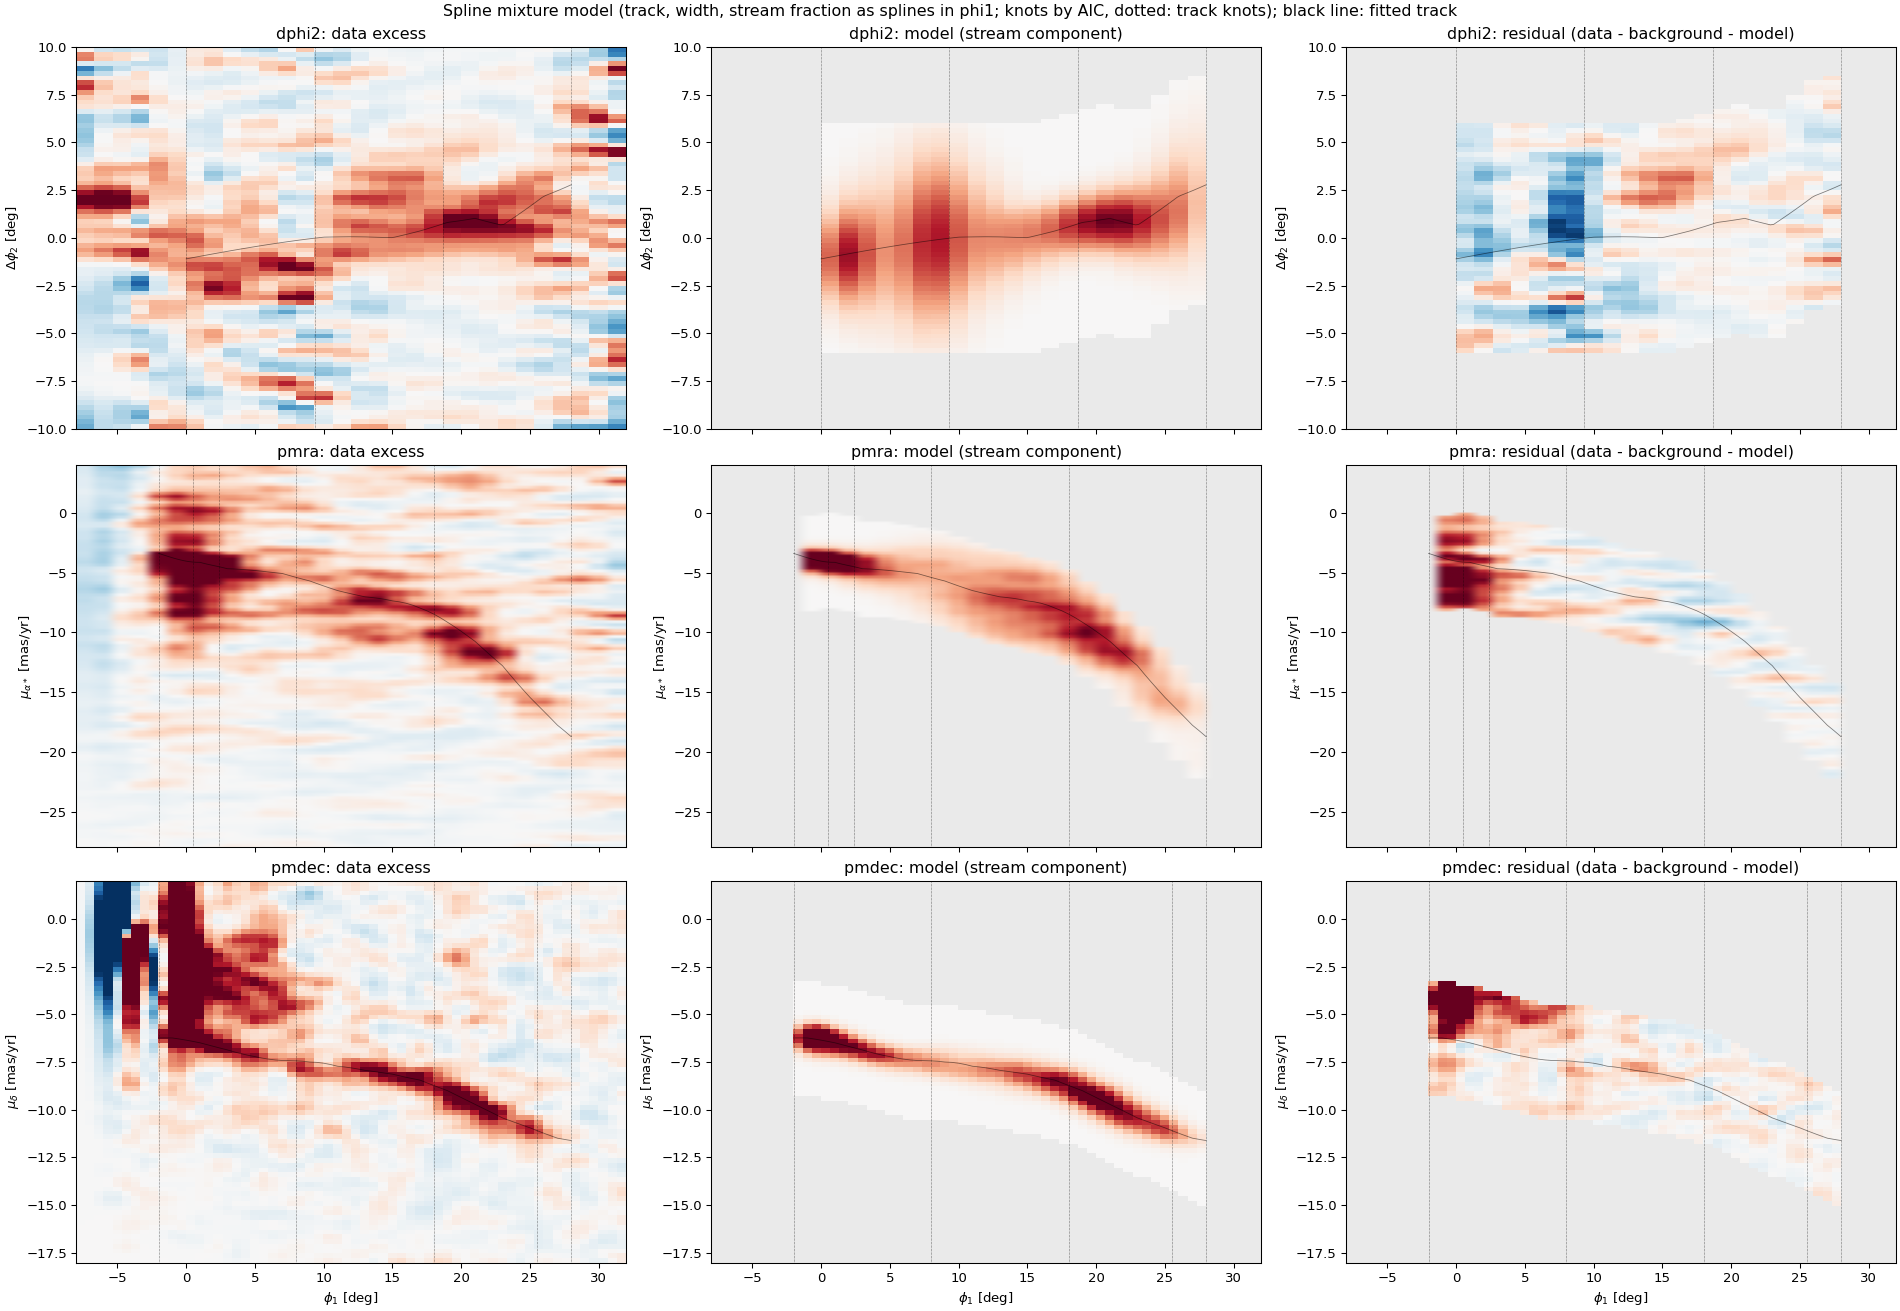
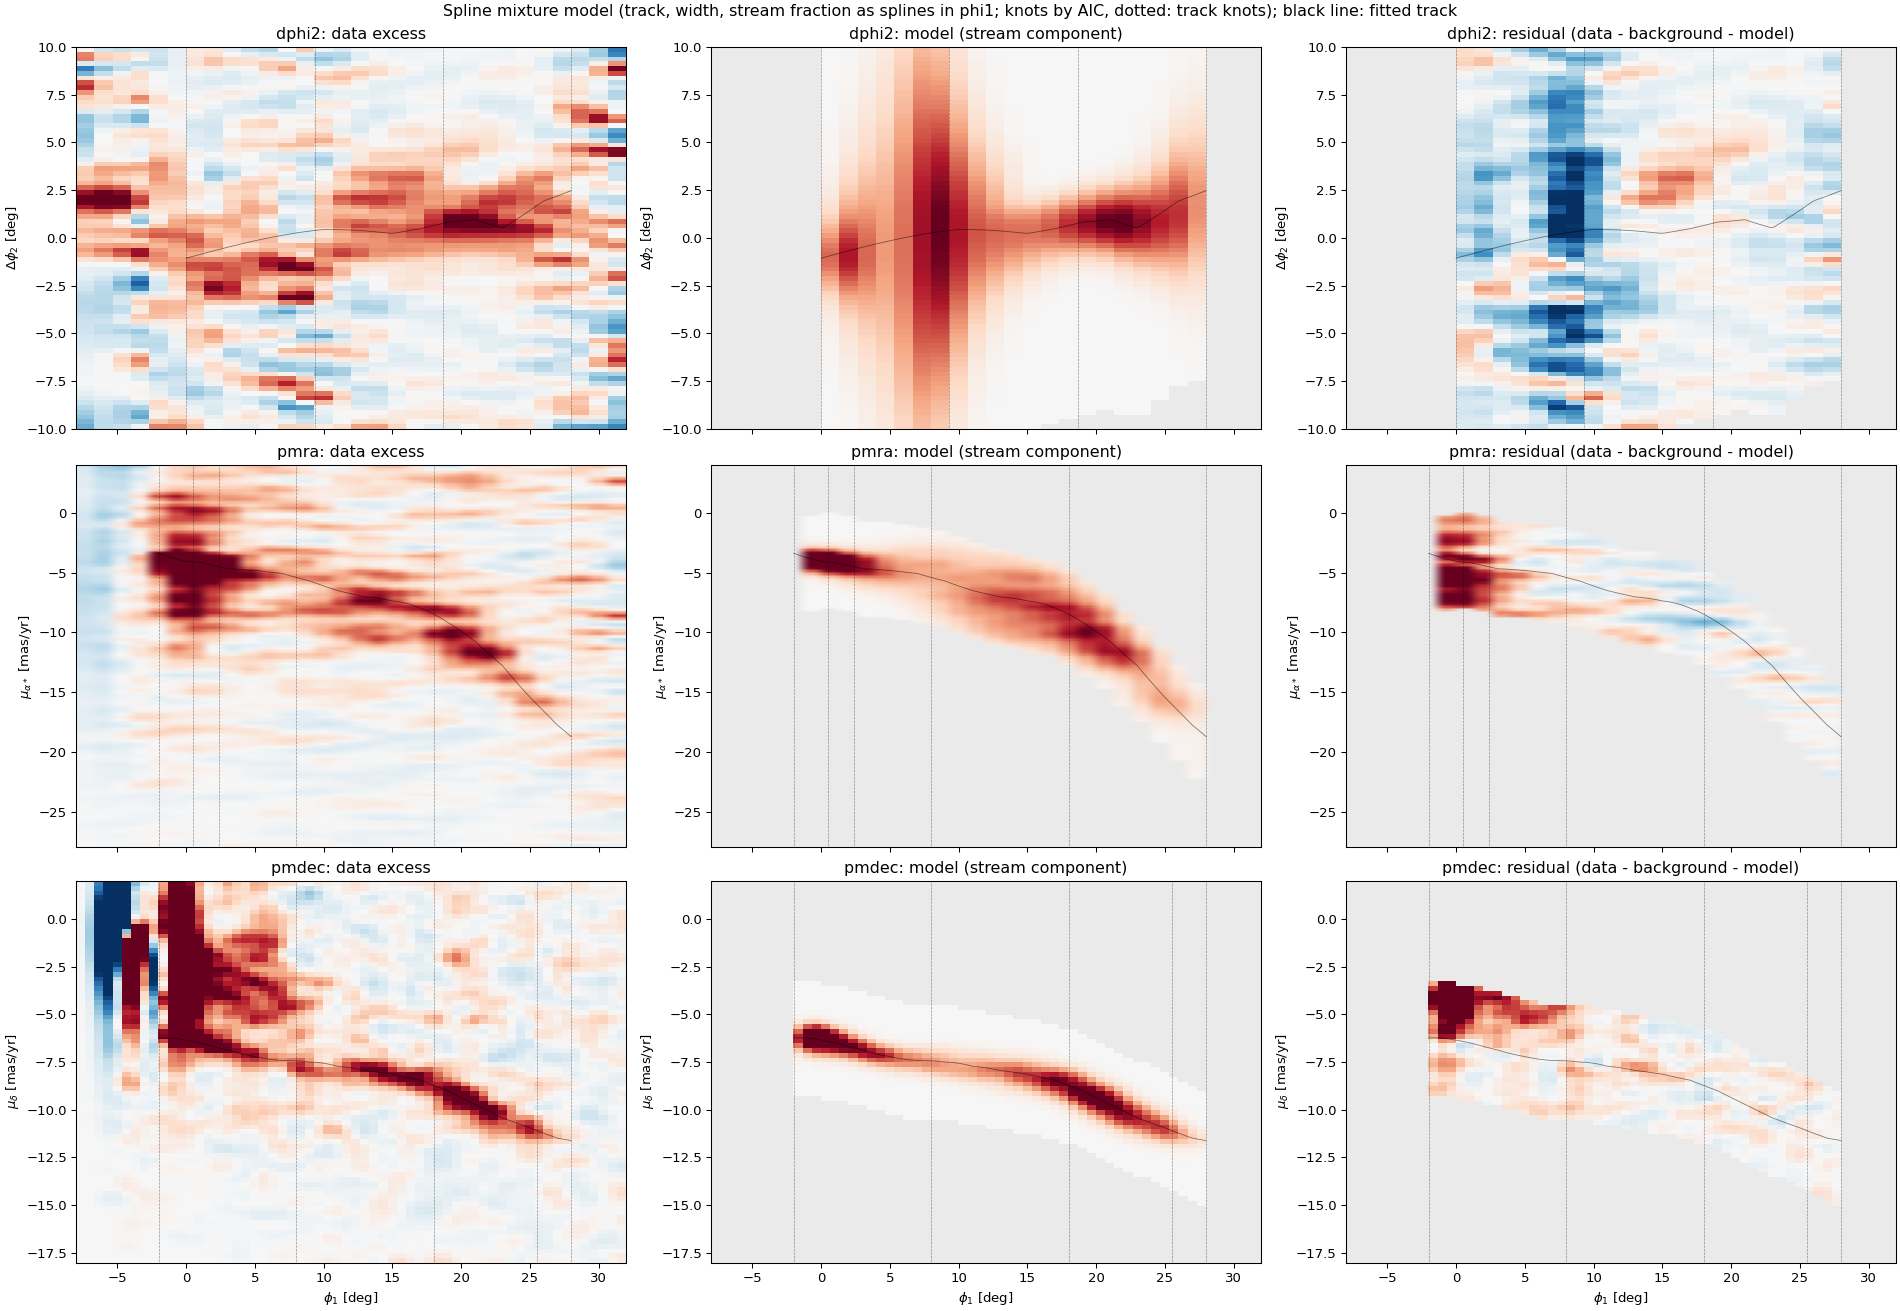
stream_spline_fit.py: sky window +-10 deg with an observed-area map (footprint edges, GC masks) in the normalisations

diff --git a/bin/streams/stream_spline_fit.py b/bin/streams/stream_spline_fit.py
@@ -26,7 +26,8 @@ torch.set_default_dtype(torch.float64)
 from scipy.interpolate import CubicSpline
 from scipy.ndimage import gaussian_filter
 
-CFG = dict(pmdec=dict(W=3.0, lo=-2., hi=28.), pmra=dict(W=4.0, lo=-2., hi=28.), dphi2=dict(W=6.0, lo=0., hi=28.))
+CFG = dict(pmdec=dict(W=3.0, lo=-2., hi=28.), pmra=dict(W=4.0, lo=-2., hi=28.), dphi2=dict(W=10.0, lo=0., hi=28.))   # sky window widened 6 -> 10 deg
+NG = 401                                                     # sky: integration grid in v over [-W, W]
 SQ2 = np.sqrt(2.)
 
 
@@ -59,8 +60,22 @@ def load(q, null_shift=0.):
         up = np.array(GX.MARK["upper"]); vu = np.interp(u, up[:, 0], up[:, 1], left=np.nan, right=np.nan)-skc
         hlo, hhi = np.where(np.isfinite(vu), vu-1.25, 0.), np.where(np.isfinite(vu), vu+1.25, 0.)
         on = sel & (np.abs(v) < c["W"]) & ~((v > hlo) & (v < hhi))
-        return dict(u=u[on], v=v[on], e=e[on], hlo=hlo[on], hhi=hhi[on], q=q, W=c["W"], lo=c["lo"], hi=c["hi"], track=None,
-                    all=dict(u=u[sel], x=x[sel]))
+        # observed-area map A(phi1, y), y = dphi2 - centre: all footprint stars (GC masks applied), 0.5 deg x 0.25 deg cells,
+        # fraction = counts / robust quadratic (in y) fit to log counts per phi1 row, clipped to [0, 1]; footprint edges
+        # (|dphi2| < 15, b > 8) and GC-mask holes -> A < 1 (the background and stream normalisations integrate over A)
+        ua, xa = raw["phi1"].astype(float), raw["dphi2"].astype(float); ka = ~gc_masked(lg, raw["b"].astype(float)) & (ua >= c["lo"]) & (ua < c["hi"])
+        ya = xa[ka]-np.interp(ua[ka], G, R["sky_window"]["centre"]); Eu = np.arange(c["lo"], c["hi"]+1e-9, 0.5); Ey = np.arange(-c["W"], c["W"]+1e-9, 0.25)
+        Na = np.histogram2d(ua[ka], ya, (Eu, Ey))[0]; cy = 0.5*(Ey[1:]+Ey[:-1]); A = np.zeros_like(Na)
+        for j in range(Na.shape[0]):
+            ok = Na[j] > 0.5*np.median(Na[j][Na[j] > 0])
+            for _ in range(3):
+                cf = np.polyfit(cy[ok], np.log(Na[j][ok]), 2); r_ = np.log(np.maximum(Na[j], 1e-3))-np.polyval(cf, cy)
+                ok = (Na[j] > 0) & (r_ > -0.3)
+            A[j] = np.clip(Na[j]/np.exp(np.polyval(cf, cy)), 0, 1)
+        vg = np.linspace(-c["W"], c["W"], NG); ju = np.clip(np.digitize(u[on], Eu)-1, 0, len(Eu)-2); jy = np.clip(np.digitize(vg, Ey)-1, 0, len(Ey)-2)
+        Aw = A[ju][:, jy]*~((vg[None, :] > hlo[on][:, None]) & (vg[None, :] < hhi[on][:, None]))
+        return dict(u=u[on], v=v[on], e=e[on], hlo=hlo[on], hhi=hhi[on], q=q, W=c["W"], lo=c["lo"], hi=c["hi"], track=None, Aw=Aw, vg=vg,
+                    area=dict(A=A, Eu=Eu, Ey=Ey), all=dict(u=u[sel], x=x[sel]))
     other = "pmdec" if q == "pmra" else "pmra"
     v = S[q]-ev(q)+null_shift; win = np.abs(x-skc) < skh; offb = (np.abs(x-skc) > 5) & (np.abs(x-skc) < 14)
     on = rng & pmm[other] & win & (np.abs(v) < c["W"]); off = rng & pmm[other] & offb & (np.abs(v) < c["W"])
@@ -81,8 +96,7 @@ class Model:
         self.B = {k: torch.tensor(basis(kn, d["u"])) for k, kn in self.knots.items()}
         self.v, self.e, self.W = torch.tensor(d["v"]), torch.tensor(d["e"]), d["W"]; self.smin = 0.1 if d["q"] == "dphi2" else 0.05
         if d["q"] == "dphi2":
-            self.hlo, self.hhi = torch.tensor(d["hlo"]), torch.tensor(d["hhi"]); self.vg = torch.linspace(-self.W, self.W, 241)
-            self.mask = ~((self.vg[None, :] > self.hlo[:, None]) & (self.vg[None, :] < self.hhi[:, None]))
+            self.vg = torch.tensor(d["vg"]); self.mask = torch.tensor(d["Aw"])          # observed-area weight x upper-branch hole
         else:
             self.lb = torch.log(torch.tensor(np.maximum(d["b"], 1e-12)))
 
@@ -101,8 +115,9 @@ class Model:
         sig = torch.sqrt(s**2+self.e**2); W = self.W
         lg = -0.5*((self.v-m)/sig)**2-torch.log(sig)-0.5*np.log(2*np.pi)
         Z = Phi((W-m)/sig)-Phi((-W-m)/sig)
-        if self.d["q"] == "dphi2":
-            Z = Z-(Phi((self.hhi-m)/sig)-Phi((self.hlo-m)/sig))
+        if self.d["q"] == "dphi2":                                   # normalisations over the observed area (numerical)
+            gz = torch.exp(-0.5*((self.vg[None, :]-m[:, None])/sig[:, None])**2)/(sig[:, None]*np.sqrt(2*np.pi))
+            Z = torch.trapezoid(gz*self.mask, self.vg, dim=1)
             a1, a2 = self.B["a1"]@P["a1"], self.B["a2"]@P["a2"]
             lbu = a1*self.v+a2*self.v**2
             gg = torch.exp(a1[:, None]*self.vg[None, :]+a2[:, None]*self.vg[None, :]**2)*self.mask
@@ -201,10 +216,11 @@ def simulate(d, M, th, seed=1):
     vg = np.linspace(-W, W, 801)
     if d["q"] == "dphi2":                                         # exp-polynomial background with the upper-branch hole
         P = M.unpack(torch.tensor(th)); a1 = (M.B["a1"]@P["a1"]).numpy(); a2 = (M.B["a2"]@P["a2"]).numpy()
-        pb = np.exp(a1[:, None]*vg[None, :]+a2[:, None]*vg[None, :]**2)*~((vg[None, :] > d["hlo"][:, None]) & (vg[None, :] < d["hhi"][:, None]))
-        hole = (vs > d["hlo"]) & (vs < d["hhi"])
-        while np.any(st & hole):
-            vs[st & hole] = c["m"][st & hole]+sig[st & hole]*rng.standard_normal((st & hole).sum()); hole = (vs > d["hlo"]) & (vs < d["hhi"]) | (np.abs(vs) >= W)
+        vg = d["vg"]; pb = np.exp(a1[:, None]*vg[None, :]+a2[:, None]*vg[None, :]**2)*d["Aw"]
+        acc = lambda vv: np.array([np.interp(a_, vg, w_) for a_, w_ in zip(vv, d["Aw"])])        # area acceptance of a stream draw
+        rej = st & ((np.abs(vs) >= W) | (rng.random(n) > acc(vs)))
+        while np.any(rej):
+            vs[rej] = c["m"][rej]+sig[rej]*rng.standard_normal(rej.sum()); rej = rej & ((np.abs(vs) >= W) | (rng.random(n) > acc(vs)))
     else:
         pb = d["bfun"](np.column_stack((np.repeat(u, 1)[:, None].repeat(len(vg), 1).ravel(), np.tile(vg, n)))).reshape(n, len(vg))
     cdf = np.cumsum(pb, 1); cdf /= cdf[:, -1:]; r = rng.random(n); vb = vg[np.argmax(cdf >= r[:, None], 1)]

diff --git a/bin/streams/stream_spline_plot.py b/bin/streams/stream_spline_plot.py
@@ -73,6 +73,10 @@ def panel(q, S, R, F, axs):
         ha, hb = np.clip(lo_e, d["hlo"][:, None], d["hhi"][:, None]), np.clip(hi_e, d["hlo"][:, None], d["hhi"][:, None])
         mass -= ndtr((hb-m[:, None])/sig[:, None])-ndtr((ha-m[:, None])/sig[:, None])
     mass = np.clip(mass, 0, None)*(f/np.maximum(Z, 1e-9))[:, None]
+    if q == "dphi2":                                                  # observed-area weighted density on the fit grid, binned to pixels
+        vg = d["vg"]; gz = np.exp(-0.5*((vg[None, :]-m[:, None])/sig[:, None])**2)*d["Aw"]; gz /= np.maximum(np.trapezoid(gz, vg, axis=1), 1e-12)[:, None]
+        cum = np.concatenate((np.zeros((len(m), 1)), np.cumsum(0.5*(gz[:, 1:]+gz[:, :-1])*np.diff(vg)[None, :], 1)), 1)
+        mass = np.clip(np.array([np.interp(hi_e[i], vg, cum[i])-np.interp(lo_e[i], vg, cum[i]) for i in range(len(m))]), 0, None)*f[:, None]
     np.add.at(Smod, ju, mass)
     inside = np.zeros_like(H, bool)
     for j, cc in enumerate(c1):
